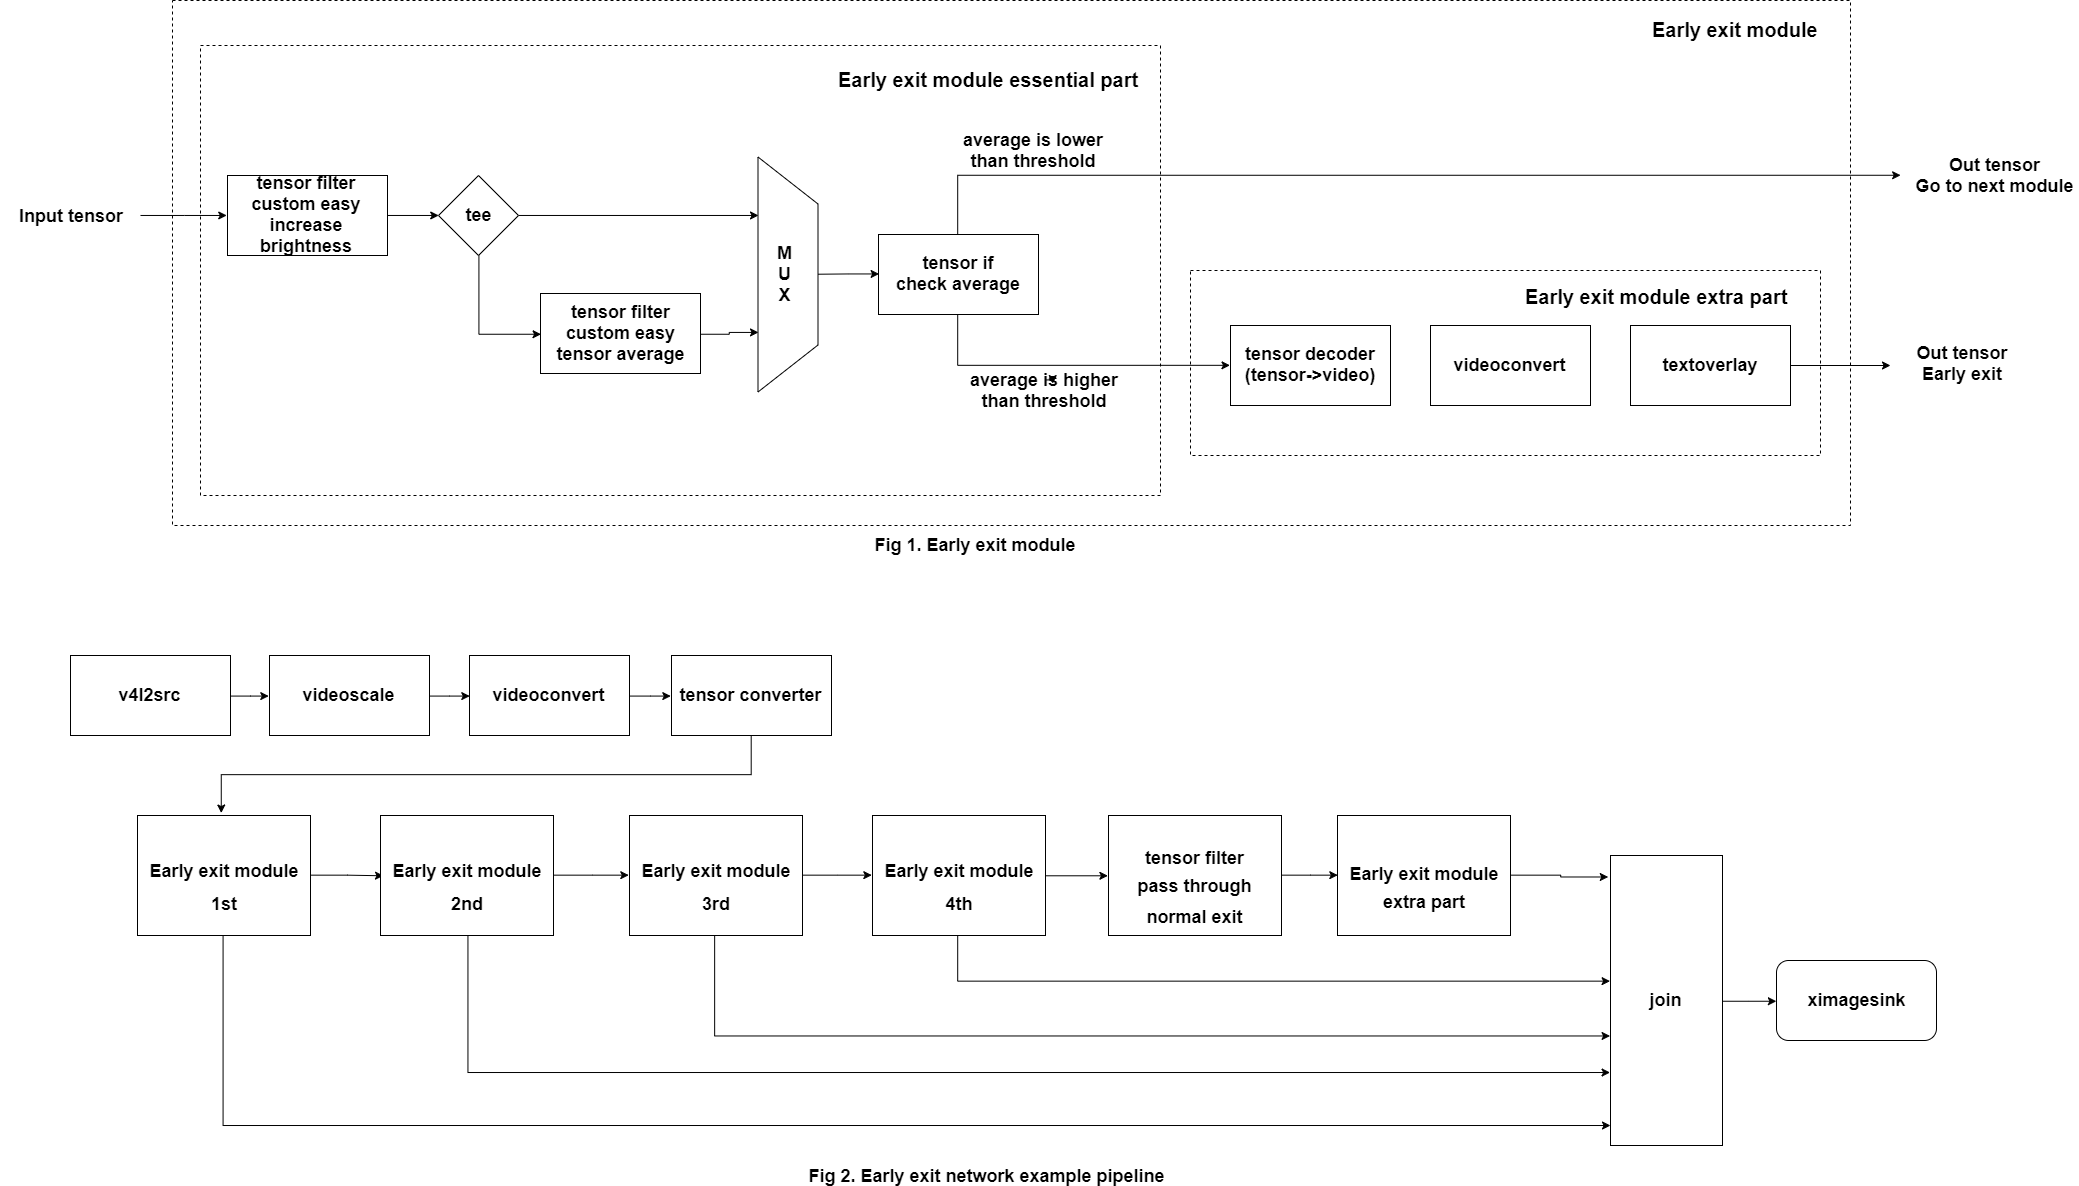
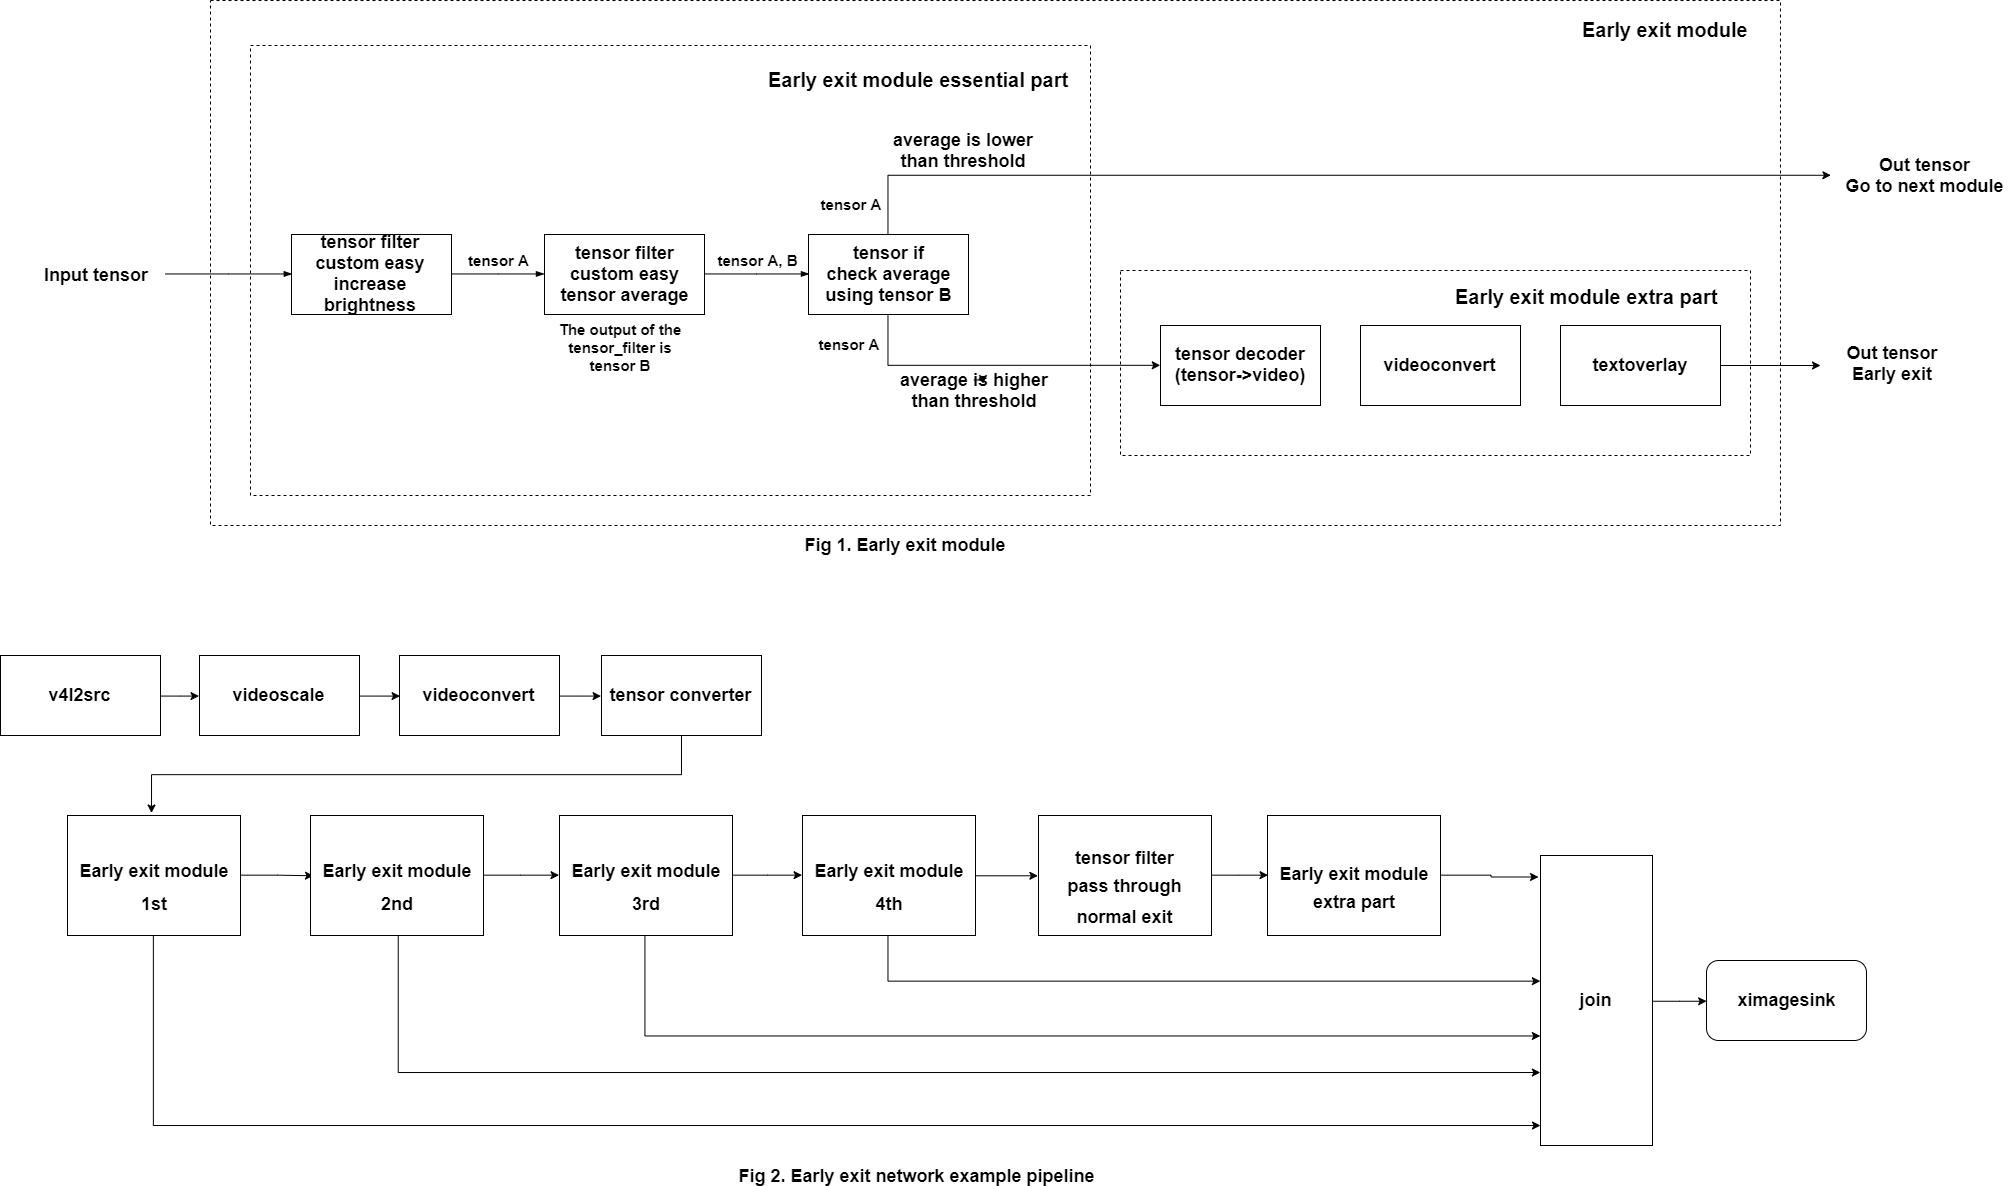
[Native/C-API] Add early exit network sample
Add early exit ntework sample application with multiple modules using nnstreamer C-API.

diff --git a/native/example_early_exit/example_early_exit_capi.c b/native/example_early_exit/example_early_exit_capi.c
@@ -1,0 +1,198 @@
+/**
+ * @file	example_early_exit_capi.c
+ * @date	16 Dec 2020
+ * @brief	Early exit network example with multiple module using nnstreamer C-API
+ * @author	Gichan Jang <gichan2.jnag@samsung.com>
+ * @bug		No known bugs.
+ */
+
+#include <unistd.h>
+#include <glib.h>
+#include <nnstreamer.h>
+#include <nnstreamer/tensor_filter_custom_easy.h>
+
+/**
+ * @brief Get early exit module description
+ */
+static gchar *
+_get_early_exit_desc (const int idx, const gchar * main_model,
+    const gchar * check_model)
+{
+  /* `extra_str` is added to help visual understanding. It is not an essential part. */
+  gchar *extra_str =
+      g_strdup_printf
+      ("tensor_decoder mode=direct_video silent=FALSE ! videoconvert ! "
+      "textoverlay text=\"Early exit module %d\" valignment=top halignment=left font-desc=\"Sans, 32\"",
+      idx);
+
+  gchar *EE_module =
+      g_strdup_printf
+      ("tensor_filter framework=custom-easy model=%s ! tensor_filter framework=custom-easy model=%s outputCombination=i0,o0 ! "
+      "tensor_if name=tif_%d compared-value=A_VALUE compared-value-option=0:0:0:0,1 "
+      "supplied-value=200 operator=GE then=TENSORPICK then-option=0 else=TENSORPICK else-option=0 "
+      "tif_%d.src_0 ! %s ! join.sink_%d " "tif_%d.src_1 ", main_model,
+      check_model, idx, idx, extra_str, idx, idx);
+  g_free (extra_str);
+  return EE_module;
+}
+
+/**
+ * @brief Callback function to passthrough the input tensor
+ */
+static int
+CE_pass_cb (const ml_tensors_data_h in, ml_tensors_data_h out, void *user_data)
+{
+  void *raw_data = NULL;
+  size_t data_size;
+
+  ml_tensors_data_get_tensor_data (in, 0, &raw_data, &data_size);
+  ml_tensors_data_set_tensor_data (out, 0, raw_data, data_size);
+
+  return 0;
+}
+
+/**
+ * @brief Callback function to increase the brightness
+ */
+static int
+CE_increase_br_cb (const ml_tensors_data_h in, ml_tensors_data_h out,
+    void *user_data)
+{
+  void *in_data = NULL, *out_data = NULL;
+  size_t in_size, out_size;
+  guint i;
+
+  ml_tensors_data_get_tensor_data (in, 0, &in_data, &in_size);
+  ml_tensors_data_get_tensor_data (out, 0, &out_data, &out_size);
+  for (i = 0; i < in_size; i++) {
+    ((guint8 *) out_data)[i] =
+        ((guint8 *) in_data)[i] + 40 > 255 ? 255 : ((guint8 *) in_data)[i] + 40;
+  }
+  return 0;
+}
+
+/**
+ * @brief Callback function to calculate average tensor value
+ */
+static int
+CE_get_avg_cb (const ml_tensors_data_h in, ml_tensors_data_h out,
+    void *user_data)
+{
+  void *in_data = NULL, *out_data = NULL;
+  size_t in_size, out_size;
+  guint i;
+  gdouble sum = 0.0;
+
+  ml_tensors_data_get_tensor_data (in, 0, &in_data, &in_size);
+  ml_tensors_data_get_tensor_data (out, 0, &out_data, &out_size);
+
+  for (i = 0; i < in_size; i++) {
+    sum += ((guint8 *) in_data)[i];
+  }
+  ((gdouble *) out_data)[0] = sum / in_size;
+
+  return 0;
+}
+
+/**
+ * @brief Main function.
+ */
+int
+main (int argc, char **argv)
+{
+  gchar *str_pipeline;
+  gchar **EEMs = NULL;
+  ml_custom_easy_filter_h custom[9];
+  ml_tensors_info_h in_info, out_info, avg_info;
+  ml_tensor_dimension video_dim = { 3, 640, 480, 1 };
+  ml_tensor_dimension avg_dim = { 1, 1, 1, 1 };
+  ml_pipeline_h pipe;
+
+  /* setting tensor_filter custom-easy */
+  ml_tensors_info_create (&in_info);
+  ml_tensors_info_set_count (in_info, 1);
+  ml_tensors_info_set_tensor_type (in_info, 0, ML_TENSOR_TYPE_UINT8);
+  ml_tensors_info_set_tensor_dimension (in_info, 0, video_dim);
+
+  ml_tensors_info_create (&out_info);
+  ml_tensors_info_set_count (out_info, 1);
+  ml_tensors_info_set_tensor_type (out_info, 0, ML_TENSOR_TYPE_UINT8);
+  ml_tensors_info_set_tensor_dimension (out_info, 0, video_dim);
+
+  ml_tensors_info_create (&avg_info);
+  ml_tensors_info_set_count (avg_info, 1);
+  ml_tensors_info_set_tensor_type (avg_info, 0, ML_TENSOR_TYPE_FLOAT64);
+  ml_tensors_info_set_tensor_dimension (avg_info, 0, avg_dim);
+
+  /* Get early exit module description */
+  EEMs = (gchar **) g_malloc0 (sizeof (gchar *) * 4);
+  EEMs[0] =
+      _get_early_exit_desc (0, "CE_increase_brightness_0", "CE_get_average_0");
+  EEMs[1] =
+      _get_early_exit_desc (1, "CE_increase_brightness_1", "CE_get_average_1");
+  EEMs[2] =
+      _get_early_exit_desc (2, "CE_increase_brightness_2", "CE_get_average_2");
+  EEMs[3] =
+      _get_early_exit_desc (3, "CE_increase_brightness_3", "CE_get_average_3");
+
+  /* init pipeline */
+  /** If the average brightness value of the input video is more than 100 (The value ranges from 0 to 255.),
+   * it does not pass through the next EE module and sends the results immediately.
+   */
+  str_pipeline =
+      g_strdup_printf
+      ("v4l2src ! videoscale ! videoconvert ! video/x-raw,format=RGB,width=640,height=480,framerate=30/1 ! tensor_converter ! "
+      "%s ! %s ! %s ! %s ! tensor_filter framework=custom-easy model=CE_passthrough_main ! "
+      "tensor_decoder mode=direct_video silent=FALSE ! videoconvert ! "
+      "textoverlay text=\"Normal exit\" valignment=top halignment=left font-desc=\"Sans, 32\" ! join.sink_4 "
+      "join name=join ! ximagesink sync=false async=false", EEMs[0], EEMs[1],
+      EEMs[2], EEMs[3]);
+  g_strfreev (EEMs);
+
+  /* Register custom easy filter */
+  ml_pipeline_custom_easy_filter_register ("CE_passthrough_main", in_info,
+      out_info, CE_pass_cb, NULL, &custom[0]);
+  ml_pipeline_custom_easy_filter_register ("CE_increase_brightness_0", in_info,
+      out_info, CE_increase_br_cb, NULL, &custom[1]);
+  ml_pipeline_custom_easy_filter_register ("CE_increase_brightness_1", in_info,
+      out_info, CE_increase_br_cb, NULL, &custom[2]);
+  ml_pipeline_custom_easy_filter_register ("CE_increase_brightness_2", in_info,
+      out_info, CE_increase_br_cb, NULL, &custom[3]);
+  ml_pipeline_custom_easy_filter_register ("CE_increase_brightness_3", in_info,
+      out_info, CE_increase_br_cb, NULL, &custom[4]);
+  ml_pipeline_custom_easy_filter_register ("CE_get_average_0", in_info,
+      avg_info, CE_get_avg_cb, NULL, &custom[5]);
+  ml_pipeline_custom_easy_filter_register ("CE_get_average_1", in_info,
+      avg_info, CE_get_avg_cb, NULL, &custom[6]);
+  ml_pipeline_custom_easy_filter_register ("CE_get_average_2", in_info,
+      avg_info, CE_get_avg_cb, NULL, &custom[7]);
+  ml_pipeline_custom_easy_filter_register ("CE_get_average_3", in_info,
+      avg_info, CE_get_avg_cb, NULL, &custom[8]);
+
+  ml_pipeline_construct (str_pipeline, NULL, NULL, &pipe);
+
+  ml_pipeline_start (pipe);
+
+  sleep (10);
+
+  ml_pipeline_stop (pipe);
+  ml_pipeline_destroy (pipe);
+
+  /* Unregister custom easy filter */
+  ml_pipeline_custom_easy_filter_unregister (custom[0]);
+  ml_pipeline_custom_easy_filter_unregister (custom[1]);
+  ml_pipeline_custom_easy_filter_unregister (custom[2]);
+  ml_pipeline_custom_easy_filter_unregister (custom[3]);
+  ml_pipeline_custom_easy_filter_unregister (custom[4]);
+  ml_pipeline_custom_easy_filter_unregister (custom[5]);
+  ml_pipeline_custom_easy_filter_unregister (custom[6]);
+  ml_pipeline_custom_easy_filter_unregister (custom[7]);
+  ml_pipeline_custom_easy_filter_unregister (custom[8]);
+
+  ml_tensors_info_destroy (in_info);
+  ml_tensors_info_destroy (out_info);
+  ml_tensors_info_destroy (avg_info);
+  g_free (str_pipeline);
+
+  return 0;
+}

diff --git a/native/example_early_exit/example_early_exit.c b/native/example_early_exit/example_early_exit.c
@@ -137,9 +137,6 @@ _message_cb (GstBus * bus, GstMessage * message, gpointer user_data)
 
 /**
  * @brief Get early exit module description
- * @note early exit module diagram
- * ... input stream -> tensor_filter -> tee ------------------> mux --> tensor_if -> TRUE action(early exit) -> join
- *                                       |---> tensor_filter ----^          |------> FALSE action -> next module
  */
 static gchar *
 _get_early_exit_desc (const int idx, const gchar * main_model,
@@ -154,13 +151,11 @@ _get_early_exit_desc (const int idx, const gchar * main_model,
 
   gchar *EE_module =
       g_strdup_printf
-      ("tensor_filter framework=custom-easy model=%s ! tee name=t_%d "
-      "t_%d. ! queue ! mux_%d.sink_0 "
-      "t_%d. ! queue ! tensor_filter framework=custom-easy model=%s ! mux_%d.sink_1 "
-      "tensor_mux name=mux_%d ! tensor_if name=tif_%d compared-value=A_VALUE compared-value-option=0:0:0:0,1 "
+      ("tensor_filter framework=custom-easy model=%s ! tensor_filter framework=custom-easy model=%s outputCombination=i0,o0 ! "
+      "tensor_if name=tif_%d compared-value=A_VALUE compared-value-option=0:0:0:0,1 "
       "supplied-value=200 operator=GE then=TENSORPICK then-option=0 else=TENSORPICK else-option=0 "
-      "tif_%d.src_0 ! %s ! join.sink_%d " "tif_%d.src_1 ", main_model, idx, idx,
-      idx, idx, check_model, idx, idx, idx, idx, extra_str, idx, idx);
+      "tif_%d.src_0 ! %s ! join.sink_%d " "tif_%d.src_1 ", main_model,
+      check_model, idx, idx, extra_str, idx, idx);
 
   g_free (extra_str);
   return EE_module;
